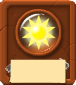
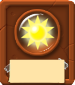
added sunflower and snowPeaShooter sprites

diff --git a/js/script.js b/js/script.js
@@ -3,7 +3,8 @@ var mouseActivity = {
     x : undefined, 
     y : undefined,
     height : 0.1,
-    width : 0.1
+    width : 0.1,
+    clicked : false
 }
 
 var player = {
@@ -25,9 +26,27 @@ var controlPanel = {
 var gameBoard = [];
 var plants = [];
 var plantVariety = [];
+var selectedPlant = undefined
+// peashooter
+var card_peashooter = new Image()
+card_peashooter.src = "./assets/cards/card_peashooter.png"
 var peashooter = new Image()
 peashooter.src = "./assets/peashooter/peashooter_idle.png"
 plantVariety.push(peashooter)
+
+// snowPeashooter
+var card_snowPeashooter = new Image()
+card_snowPeashooter.src = "./assets/cards/card_snowpea.png"
+var snowPeashooter = new Image()
+snowPeashooter.src = "./assets/snowPeashooter/snowPeashooter.png"
+plantVariety.push(snowPeashooter)
+
+// sunflower
+var card_sunflower = new Image()
+card_sunflower.src = "./assets/cards/card_sunflower.png"
+var sunflower = new Image()
+sunflower.src = "./assets/sunflower/sunflower.png"
+plantVariety.push(sunflower)
 
 var zombies = [];
 var totalZombies = 10
@@ -87,20 +106,38 @@ canvas.addEventListener('mouseleave',function(e){
 
     // console.log(e.key)
 })
+console.log('m',mouseActivity.clicked)
+canvas.addEventListener('mousedown',function(e){
+    mouseActivity.clicked = true
+    console.log('m',mouseActivity.clicked)
+})
+
+canvas.addEventListener('mouseup',function(e){
+    mouseActivity.clicked = false
+})
 
 canvas.addEventListener('click', function(e){
     // console.log('clock')
     var posx = mouseActivity.x - (mouseActivity.x % gridSize);
     var posy = mouseActivity.y - (mouseActivity.y % gridSize);
-    var sunValue = 100;
+    var sunVal = undefined;
+    if(selectedPlant == 0){
+        sunVal = sunflowerCard.sunValue
+    }
+    if(selectedPlant == 1){
+        sunVal = peashooterCard.sunValue
+    }
+    if(selectedPlant == 2){
+        sunVal = snowPeashooterCard.sunValue
+    }
     for (i = 0; i < plants.length; i++){
         if((plants[i].x == posx && plants[i].y == posy)){
             return
         }
     }
-    if (TotalsunValue >= sunValue){
+    if (TotalsunValue >= sunVal){
         plants.push(new Plant(posx, posy))
-        TotalsunValue = TotalsunValue - sunValue
+        TotalsunValue = TotalsunValue - sunVal
         // console.log('okk',posx,posy,e.x,e.y)
     }
 
@@ -189,6 +226,77 @@ function drawBoard(){
     ctx.fillText(TotalsunValue, 47, 88)
 }
 
+var sunflowerCard = {
+    x : 10,
+    y : 105,
+    height : 90,
+    width : 65,
+    fill : 'green',
+    sunValue : 50
+}
+
+
+var peashooterCard = {
+    x : 10,
+    y : 205,
+    height : 90,
+    width : 65,
+    fill : 'green',
+    sunValue : 100
+}
+
+var snowPeashooterCard = {
+    x : 10,
+    y : 305,
+    height : 90,
+    width : 65,
+    fill : 'green',
+    sunValue : 175
+}
+
+function plantSelecter(){
+    if(checkCollision(sunflowerCard, mouseActivity) && mouseActivity.clicked ){
+        selectedPlant = 0
+    }
+    if(checkCollision(peashooterCard, mouseActivity) && mouseActivity.clicked ){
+        selectedPlant = 1
+    }
+    if(checkCollision(snowPeashooterCard, mouseActivity) && mouseActivity.clicked ){
+        selectedPlant = 2
+    }
+    if(selectedPlant == 0){
+        sunflowerCard.fill = 'black'
+        peashooterCard.fill = 'green'
+        snowPeashooterCard.fill = 'green'
+    }
+    else if(selectedPlant == 1){
+        peashooterCard.fill = 'black'
+        sunflowerCard.fill = 'green'
+        snowPeashooterCard.fill = 'green'
+    }
+    else if(selectedPlant == 2){
+        snowPeashooterCard.fill = 'black'
+        peashooterCard.fill = 'green'
+        sunflowerCard.fill = 'green'
+    }
+    else{
+        peashooterCard.fill = 'green'
+        snowPeashooterCard.fill = 'green'
+        sunflowerCard.fill = 'green'
+    }
+    ctx.lineWidth = 2
+    ctx.fillStyle = peashooterCard.fill
+    ctx.fillRect(peashooterCard.x, peashooterCard.y, peashooterCard.width + 5, peashooterCard.height + 5)
+    ctx.drawImage(card_peashooter,peashooterCard.x + 2.5, peashooterCard.y + 2.5, peashooterCard.width, peashooterCard.height)
+    ctx.fillStyle = snowPeashooterCard.fill
+    ctx.fillRect(snowPeashooterCard.x, snowPeashooterCard.y, snowPeashooterCard.width + 5, snowPeashooterCard.height + 5)
+    ctx.drawImage(card_snowPeashooter,snowPeashooterCard.x + 2.5, snowPeashooterCard.y + 2.5, snowPeashooterCard.width, snowPeashooterCard.height)
+    ctx.fillStyle = sunflowerCard.fill
+    ctx.fillRect(sunflowerCard.x, sunflowerCard.y, sunflowerCard.width + 5, sunflowerCard.height + 5)
+    ctx.drawImage(card_sunflower,sunflowerCard.x + 2.5, sunflowerCard.y + 2.5, sunflowerCard.width, sunflowerCard.height)
+
+}
+
 function Plant(x, y){
     this.height = gridSize;
     this.width = gridSize;
@@ -196,18 +304,35 @@ function Plant(x, y){
     this.y = y;
     this.health = 30;
     this.attack = false;
-    this.type = plantVariety[0]
-    this.frameStart = 0
-    this.frameEnd = 13
-    this.imgheight = 73
-    this.imgwidth = 73
+    this.type = selectedPlant
     this.plantCount = 0
+    // this.type = plantVariety[0]
+    if(this.type == 0){
+        this.frameStart = 0
+        this.frameEnd = 17
+        this.imgheight = 74
+        this.imgwidth = 75
+    }
+    else{
+        this.frameStart = 0
+        this.frameEnd = 13
+        this.imgheight = 73
+        this.imgwidth = 73
+    }
 
     this.draw = function(){
-            if(this.x > startpointX && this.x < endpointX && this.y >= gridSize && this.y < endpointY){
+        if(this.x > startpointX && this.x < endpointX && this.y >= gridSize && this.y < endpointY){
+            if(this.type == 0){
             // ctx.fillStyle = 'black'
             // ctx.fillRect(this.x, this.y, this.width, this.height)
+            ctx.drawImage(sunflower,this.frameStart * this.imgwidth, 0, this.imgwidth, this.imgheight, this.x , this.y + (this.height / 5), this.width / 1.5, this.height / 1.5)
+            }
+            if(this.type == 1){
             ctx.drawImage(peashooter,this.frameStart * this.imgwidth, 0, this.imgwidth, this.imgheight, this.x , this.y + (this.height / 5), this.width / 1.5, this.height / 1.5)
+            }
+            else if(this.type == 2){
+            ctx.drawImage(snowPeashooter,this.frameStart * this.imgwidth, 0, this.imgwidth, this.imgheight, this.x , this.y + (this.height / 5), this.width / 1.5, this.height / 1.5)
+            }
         }
     }
 
@@ -222,7 +347,9 @@ function Plant(x, y){
             }
         }
         if(this.plantCount % 100 == 0){
-            peas.push(new Pea(this.x + (gridSize / 4), this.y + (gridSize / 6)))
+            if(this.type != 0){
+                peas.push(new Pea(this.x + (gridSize / 4), this.y + (gridSize / 6)))
+            }
         }
     }
 }
@@ -381,6 +508,7 @@ function Sun(x){
         ctx.clearRect(0,0,canvas.width, canvas.height)
         // ctx.fillStyle = 'gray';
         drawBoard()
+        plantSelecter()
         // ctx.fillRect(0,0,controlPanel.width,controlPanel.height)
         drawGrid()
         drawPlant()
